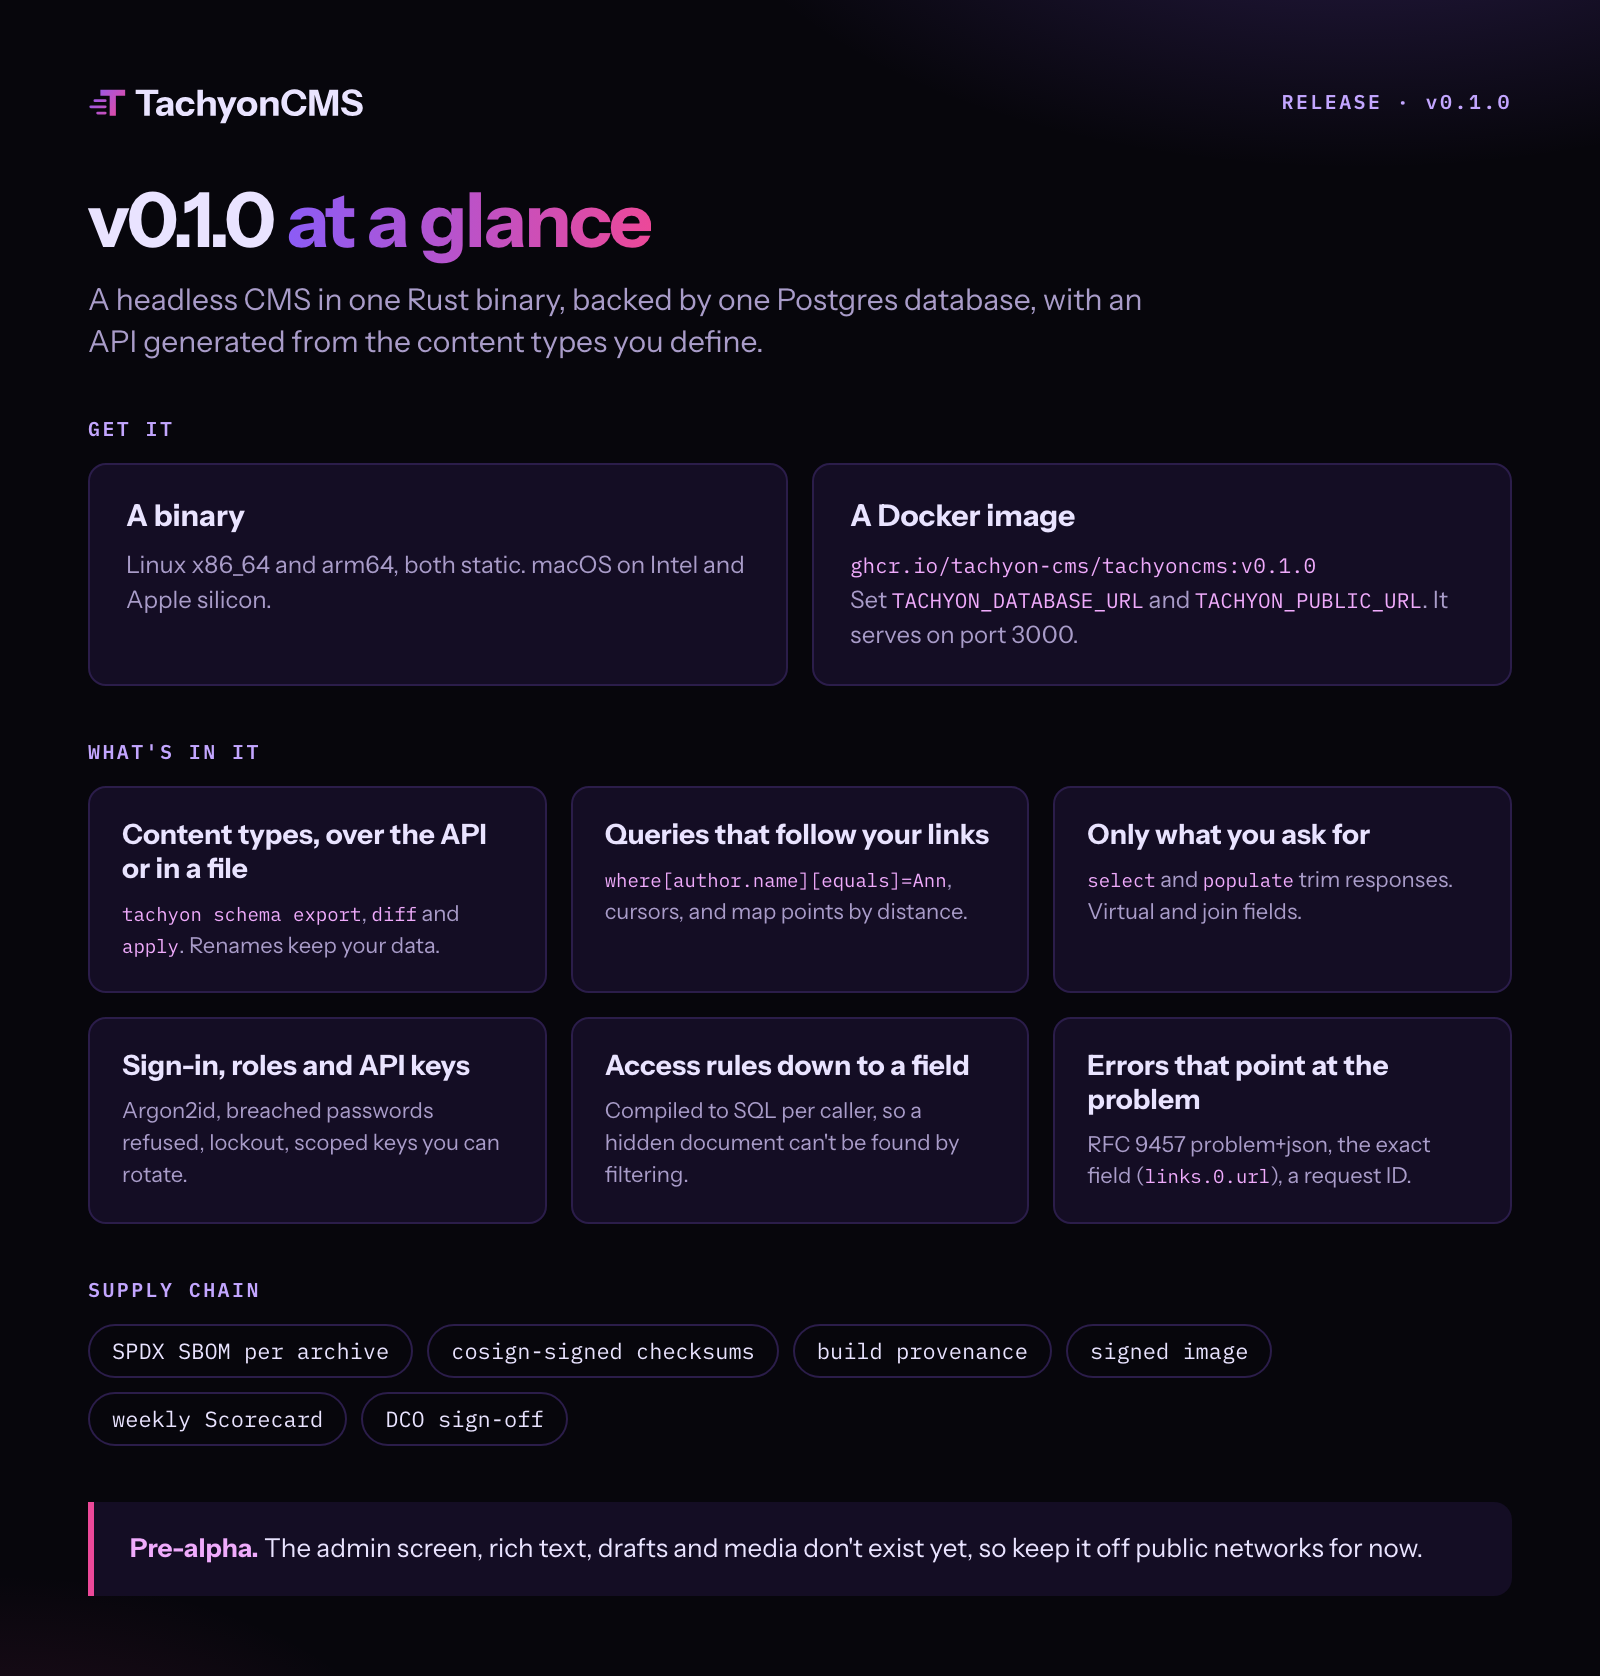
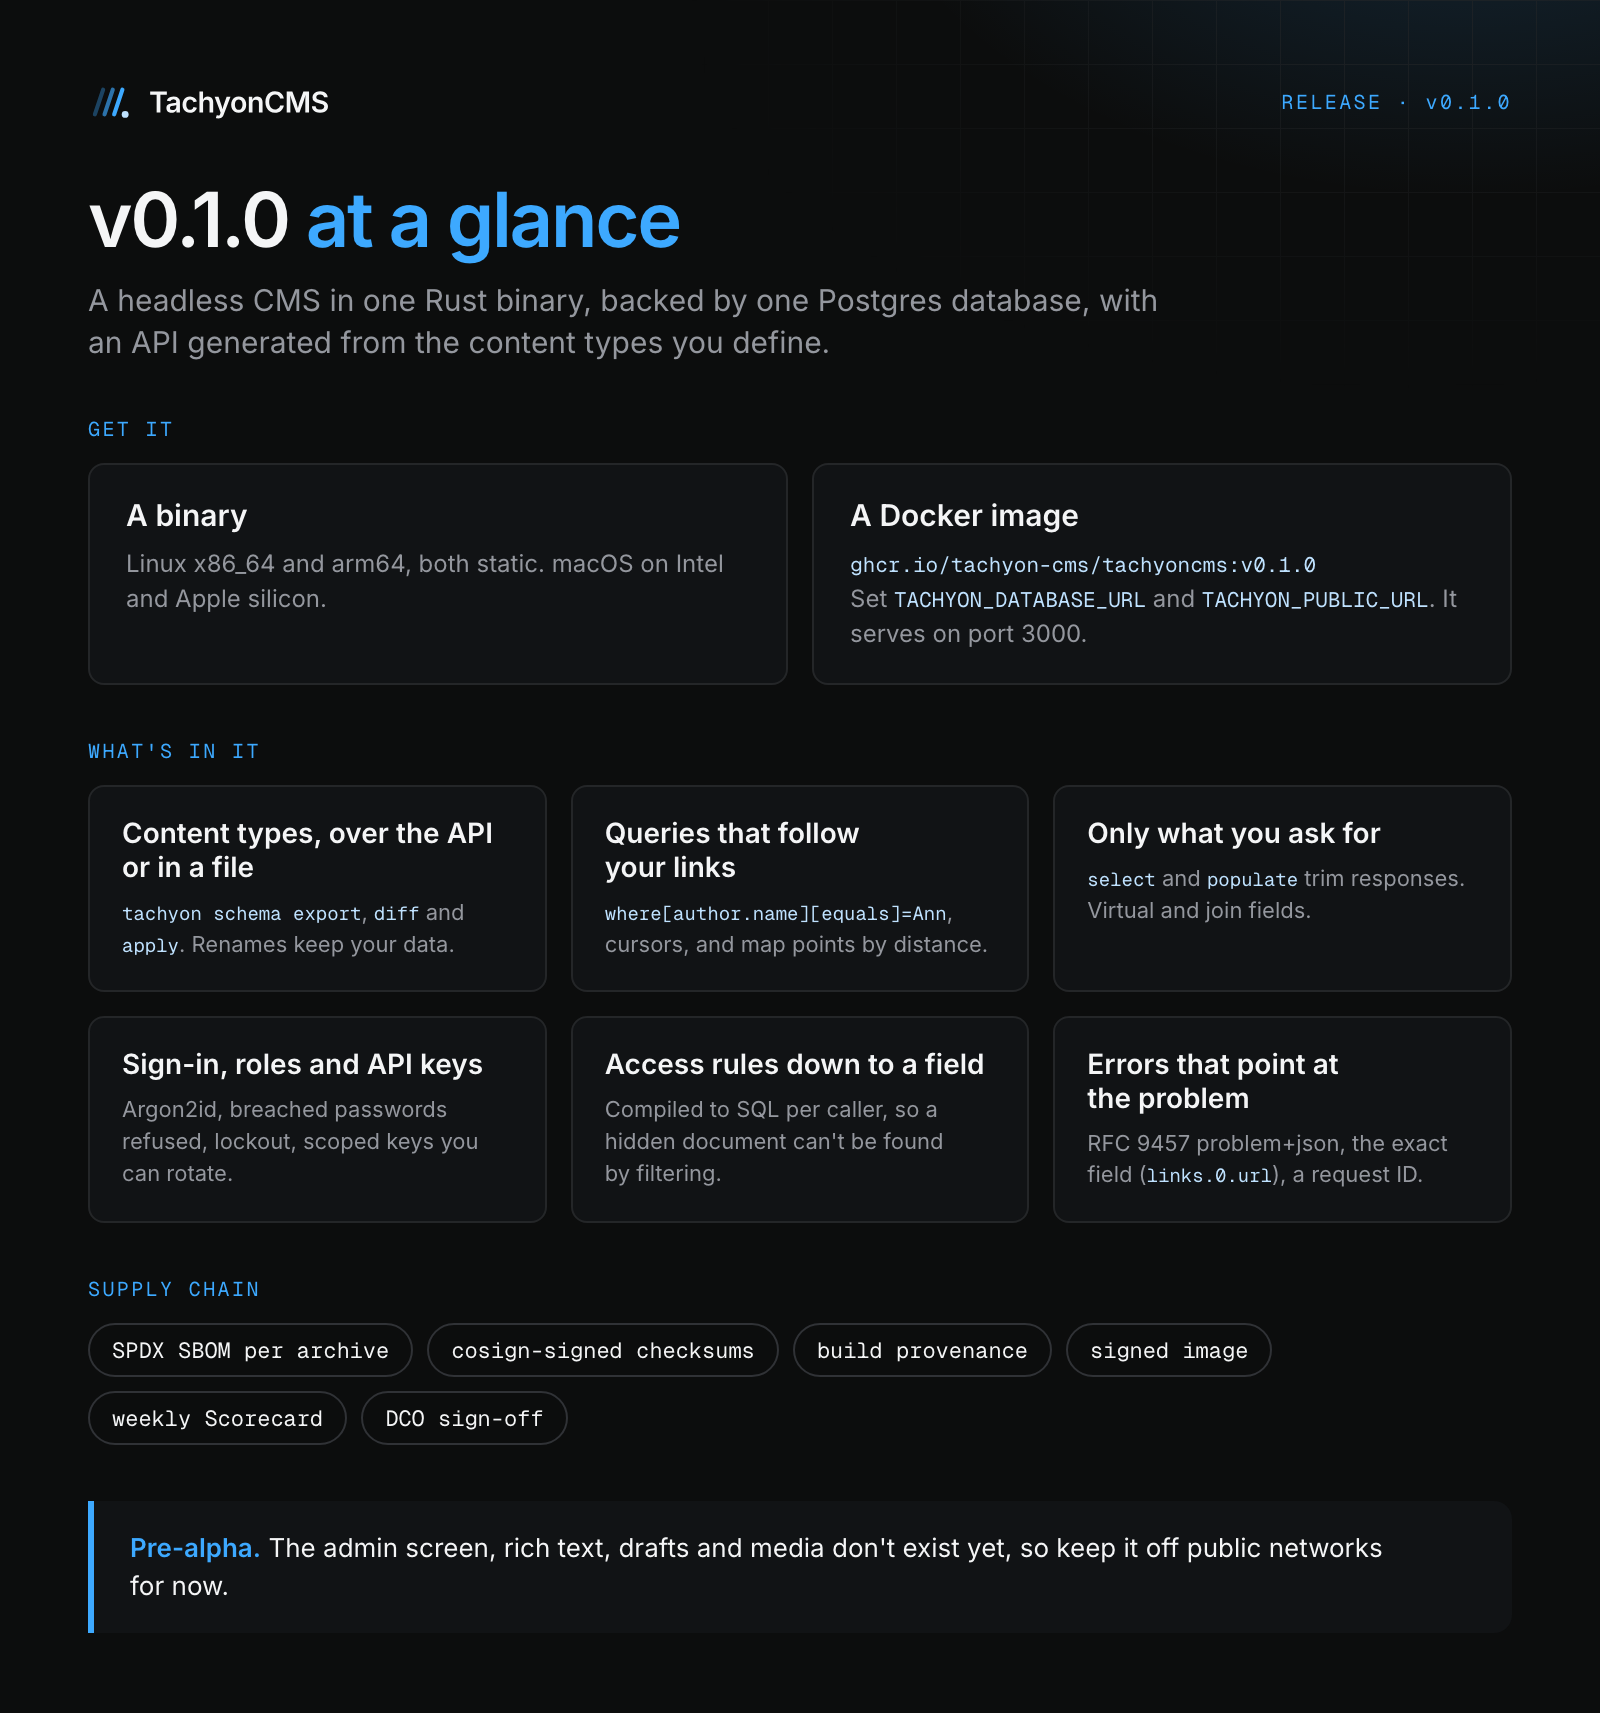
feat: media kits in the new look, docs preview on branches
The blog cards and infographics are re-rendered in the dark palette
with the slipstream mark, Inter and Geist Mono. scripts/media.test.mjs
decodes every PNG under public/media and public/brand and fails on any
pixel of the old violet and pink palette; it also checks each post's
infographic <img> carries the PNG's real size. render.mjs now fails if
a font face can't load, and the Instrument Sans and IBM Plex Mono
packages are gone.

preview-docs.yml uploads the docs as a Worker version on every push
to a branch other than main, without deploying it, and puts the
preview URL in the job summary after checking it serves the CSP.
It never runs on pull_request, skips without the Cloudflare secrets,
and the docs Worker now serves preview URLs (still no workers.dev
route). scripts/workflows.test.mjs holds those rules in place.

diff --git a/scripts/post-graphics/shared.css b/scripts/post-graphics/shared.css
@@ -1,36 +1,47 @@
 /* Shared by every post graphic. Fonts load from the installed @fontsource
- * files, the same ones the site serves; colours are the dark Ultraviolet tokens. */
-@font-face { font-family: "Instrument Sans"; font-weight: 400; src: url("../../node_modules/@fontsource/instrument-sans/files/instrument-sans-latin-400-normal.woff2"); }
-@font-face { font-family: "Instrument Sans"; font-weight: 600; src: url("../../node_modules/@fontsource/instrument-sans/files/instrument-sans-latin-600-normal.woff2"); }
-@font-face { font-family: "Instrument Sans"; font-weight: 700; src: url("../../node_modules/@fontsource/instrument-sans/files/instrument-sans-latin-700-normal.woff2"); }
-@font-face { font-family: "IBM Plex Mono"; font-weight: 400; src: url("../../node_modules/@fontsource/ibm-plex-mono/files/ibm-plex-mono-latin-400-normal.woff2"); }
-@font-face { font-family: "IBM Plex Mono"; font-weight: 600; src: url("../../node_modules/@fontsource/ibm-plex-mono/files/ibm-plex-mono-latin-600-normal.woff2"); }
+ * files, the same ones the site serves; colours are values from
+ * src/brand/tokens.css (scripts/brand.test.mjs keeps them in step). */
+@font-face { font-family: Inter; font-weight: 400; src: url("../../node_modules/@fontsource/inter/files/inter-latin-400-normal.woff2"); }
+@font-face { font-family: Inter; font-weight: 600; src: url("../../node_modules/@fontsource/inter/files/inter-latin-600-normal.woff2"); }
+@font-face { font-family: "Geist Mono"; font-weight: 400; src: url("../../node_modules/@fontsource/geist-mono/files/geist-mono-latin-400-normal.woff2"); }
 
 :root {
-  --bg: #07060c;
-  --surface: #140d24;
-  --border: #2b1d4a;
-  --text: #e9e3ff;
-  --muted: #a99cc9;
-  --violet: #8b5cf6;
-  --pink: #ec4899;
-  --hi: #f0abfc;
-  --soft: #c3a6ff;
-  --grad: linear-gradient(90deg, var(--violet), var(--pink));
-  --sans: "Instrument Sans", sans-serif;
-  --mono: "IBM Plex Mono", monospace;
+  --bg: #0c0d0d;
+  --panel: #111315;
+  --line: #242628;
+  --line-2: #303236;
+  --text: #f4f5f6;
+  --muted: #94979e;
+  --blue: #3da9ff;
+  --blue-soft: #bfe2ff;
+  --blue-deep: #0b2236;
+  --on-blue: #04121f;
+  --sans: Inter, sans-serif;
+  --mono: "Geist Mono", monospace;
 }
 * { box-sizing: border-box; margin: 0; }
+p, h1, h3 { text-wrap: pretty; }
 body {
-  background:
-    radial-gradient(60rem 30rem at 85% -10%, rgb(139 92 246 / 0.28), transparent 70%),
-    radial-gradient(40rem 24rem at 0% 110%, rgb(236 72 153 / 0.16), transparent 70%),
-    var(--bg);
+  position: relative;
+  background: radial-gradient(56rem 36rem at 92% -12%, rgb(61 169 255 / 0.2), transparent 70%), var(--bg);
   color: var(--text);
   font-family: var(--sans);
+  font-weight: 400;
   -webkit-font-smoothing: antialiased;
 }
-.eyebrow { font: 600 20px/1 var(--mono); letter-spacing: 0.12em; text-transform: uppercase; color: var(--soft); }
-.grad { background: var(--grad); -webkit-background-clip: text; background-clip: text; color: transparent; }
+/* The same faint grid as the site's page headers, fading out from the top right. */
+body::before {
+  content: "";
+  position: absolute;
+  inset: 0;
+  background-image: linear-gradient(var(--line) 1px, transparent 1px), linear-gradient(90deg, var(--line) 1px, transparent 1px);
+  background-size: 64px 64px;
+  mask-image: radial-gradient(60% 520px at 88% 0%, #000 10%, transparent 75%);
+  opacity: 0.6;
+}
+.frame { position: relative; }
+h1, h2, h3, b, strong { font-weight: 600; }
+.eyebrow { font: 400 20px/1 var(--mono); letter-spacing: 0.12em; text-transform: uppercase; color: var(--blue); }
+.accent { color: var(--blue); }
 code, pre { font-family: var(--mono); }
-.box { background: var(--surface); border: 2px solid var(--border); border-radius: 18px; }
+.box { background: var(--panel); border: 2px solid var(--line); border-radius: 16px; }

diff --git a/scripts/post-graphics/v0-1-0/infographic.html b/scripts/post-graphics/v0-1-0/infographic.html
@@ -17,23 +17,23 @@
   .get .box { padding: 32px 36px; }
   .get h3 { font-size: 30px; margin-bottom: 14px; }
   .get p { font-size: 24px; line-height: 1.45; color: var(--muted); }
-  .get code { color: var(--hi); font-size: 21px; }
+  .get code { color: var(--blue-soft); font-size: 21px; }
   .grid { display: grid; grid-template-columns: repeat(3, 1fr); gap: 24px; }
   .grid .box { padding: 30px 32px; }
   .grid h3 { font-size: 28px; line-height: 1.2; margin-bottom: 12px; }
   .grid p { font-size: 22px; line-height: 1.45; color: var(--muted); }
-  .grid code { color: var(--hi); font-size: 19px; }
+  .grid code { color: var(--blue-soft); font-size: 19px; }
   .chain { display: flex; flex-wrap: wrap; gap: 14px; padding: 0; list-style: none; }
-  .chain li { padding: 14px 22px; border: 2px solid var(--border); border-radius: 999px; font: 400 22px/1 var(--mono); color: var(--text); }
-  .note { padding: 28px 36px; border-left: 6px solid var(--pink); background: var(--surface); border-radius: 0 18px 18px 0; font-size: 26px; line-height: 1.45; }
-  .note b { color: var(--hi); }
+  .chain li { padding: 14px 22px; border: 2px solid var(--line-2); border-radius: 999px; font: 400 22px/1 var(--mono); color: var(--text); }
+  .note { padding: 28px 36px; border-left: 6px solid var(--blue); background: var(--panel); border-radius: 0 18px 18px 0; font-size: 26px; line-height: 1.45; }
+  .note b { color: var(--blue); }
 </style>
 </head>
 <body>
 <div class="frame">
   <div class="top"><img src="../../../public/brand/logo.svg" alt=""><span class="eyebrow">Release · <span>v0.1.0</span></span></div>
   <header>
-    <h1>v0.1.0 <span class="grad">at a glance</span></h1>
+    <h1>v0.1.0 <span class="accent">at a glance</span></h1>
     <p class="lede">A headless CMS in one Rust binary, backed by one Postgres database, with an API generated from the content types you define.</p>
   </header>
 

diff --git a/scripts/post-graphics/where-tachyoncms-is-headed/card.html b/scripts/post-graphics/where-tachyoncms-is-headed/card.html
@@ -12,16 +12,16 @@
   h1 { align-self: center; font-size: 80px; line-height: 1.02; letter-spacing: -0.04em; }
   ol { display: grid; grid-template-columns: repeat(6, 1fr); gap: 12px; padding: 0; list-style: none; counter-reset: step; }
   li { position: relative; padding: 18px 16px 16px; font-size: 20px; line-height: 1.25; font-weight: 600; }
-  li::before { counter-increment: step; content: "0" counter(step); display: block; margin-bottom: 10px; font: 600 16px/1 var(--mono); color: var(--soft); }
-  li.now { border-color: var(--violet); }
-  li.now::after { content: "under way"; position: absolute; top: -14px; right: 12px; padding: 4px 10px; font: 600 14px/1 var(--mono); color: #fff; background: var(--grad); border-radius: 999px; }
-  li.last { border-style: dashed; }
+  li::before { counter-increment: step; content: "0" counter(step); display: block; margin-bottom: 10px; font: 400 16px/1 var(--mono); color: var(--blue); }
+  li.now { border-color: var(--blue); background: var(--blue-deep); }
+  li.now::after { content: "under way"; position: absolute; top: -14px; right: 12px; padding: 4px 10px; font: 400 14px/1 var(--mono); color: var(--on-blue); background: var(--blue); border-radius: 999px; }
+  li.last { border-style: dashed; border-color: var(--line-2); }
 </style>
 </head>
 <body>
 <div class="frame">
   <div class="top"><img src="../../../public/brand/logo.svg" alt=""><span class="eyebrow">Roadmap</span></div>
-  <h1>Where TachyonCMS<br><span class="grad">is headed.</span></h1>
+  <h1>Where TachyonCMS<br><span class="accent">is headed.</span></h1>
   <ol>
     <li class="box now">Rich text and blocks</li>
     <li class="box">Drafts, versions, scheduling</li>

diff --git a/scripts/post-graphics/where-tachyoncms-is-headed/infographic.html b/scripts/post-graphics/where-tachyoncms-is-headed/infographic.html
@@ -19,12 +19,12 @@
   .row p { font-size: 24px; line-height: 1.45; color: var(--muted); }
   ol { display: grid; gap: 18px; padding: 0; list-style: none; counter-reset: step; }
   ol li { display: grid; grid-template-columns: 96px 1fr auto; align-items: center; gap: 28px; padding: 28px 36px; }
-  ol li::before { counter-increment: step; content: "0" counter(step); font: 600 34px/1 var(--mono); color: var(--soft); }
+  ol li::before { counter-increment: step; content: "0" counter(step); font: 400 34px/1 var(--mono); color: var(--blue); }
   ol h3 { margin-bottom: 6px; }
   ol p { font-size: 23px; line-height: 1.4; color: var(--muted); }
-  .tag { padding: 8px 16px; font: 600 18px/1 var(--mono); color: #fff; background: var(--grad); border-radius: 999px; }
-  li.now { border-color: var(--violet); }
-  li.last { border-style: dashed; }
+  .tag { padding: 8px 16px; font: 400 18px/1 var(--mono); color: var(--on-blue); background: var(--blue); border-radius: 999px; }
+  li.now { border-color: var(--blue); background: var(--blue-deep); }
+  li.last { border-style: dashed; border-color: var(--line-2); }
   .ask { display: grid; grid-template-columns: repeat(3, 1fr); gap: 24px; }
   .ask .box { padding: 30px 32px; }
   .ask h3 { font-size: 28px; }
@@ -35,7 +35,7 @@
 <div class="frame">
   <div class="top"><img src="../../../public/brand/logo.svg" alt=""><span class="eyebrow">Roadmap</span></div>
   <header>
-    <h1>Where TachyonCMS <span class="grad">is headed</span></h1>
+    <h1>Where TachyonCMS <span class="accent">is headed</span></h1>
     <p class="lede">The goal that sets the order: <b>run tachyoncms.com on TachyonCMS itself.</b></p>
   </header>
 

diff --git a/scripts/post-graphics/v0-1-0/card.html b/scripts/post-graphics/v0-1-0/card.html
@@ -9,20 +9,20 @@
   .frame { height: 100%; padding: 60px 72px; display: grid; grid-template-columns: minmax(0, 1fr); grid-template-rows: auto 1fr auto; }
   .top { display: flex; justify-content: space-between; align-items: center; }
   .top img { height: 40px; }
-  h1 { align-self: center; font-size: 84px; line-height: 1.02; letter-spacing: -0.04em; font-weight: 700; }
+  h1 { align-self: center; font-size: 84px; line-height: 1.02; letter-spacing: -0.04em; }
   .bottom { display: grid; gap: 22px; }
   pre { padding: 22px 28px; font-size: 26px; color: var(--text); }
-  pre span { color: var(--hi); }
+  pre span { color: var(--blue); }
   ul { display: flex; gap: 12px; padding: 0; list-style: none; font: 400 18px/1 var(--mono); color: var(--muted); }
   .eyebrow span { text-transform: none; }
-  li { white-space: nowrap; padding: 10px 14px; border: 2px solid var(--border); border-radius: 999px; }
-  li b { color: var(--text); font-weight: 600; }
+  li { white-space: nowrap; padding: 10px 14px; border: 2px solid var(--line); border-radius: 999px; }
+  li b { color: var(--text); font-weight: 400; }
 </style>
 </head>
 <body>
 <div class="frame">
   <div class="top"><img src="../../../public/brand/logo.svg" alt=""><span class="eyebrow">Release · <span>v0.1.0</span></span></div>
-  <h1>Run it<br><span class="grad">without building it.</span></h1>
+  <h1>Run it<br><span class="accent">without building it.</span></h1>
   <div class="bottom">
     <pre class="box"><span>$</span> docker pull ghcr.io/tachyon-cms/tachyoncms:v0.1.0</pre>
     <ul>

diff --git a/src/content/blog/v0-1-0.md b/src/content/blog/v0-1-0.md
@@ -49,7 +49,7 @@ From there the [README](https://github.com/tachyon-cms/tachyoncms#first-run) tak
 ## What you get
 
 <figure>
-  <a href="/media/blog/v0-1-0/infographic.png"><img src="/media/blog/v0-1-0/infographic.png" alt="v0.1.0 at a glance. Get it as a binary for Linux or macOS, or as a Docker image. What's in it: content types over the API or in a file, queries that follow your links, responses trimmed to what you ask for, sign-in with roles and API keys, access rules down to a field, and errors that name the field. Supply chain: an SBOM per archive, cosign-signed checksums, build provenance, a signed image, a weekly Scorecard and DCO sign-off. Pre-alpha: no admin screen, rich text, drafts or media yet." width="1600" height="1676" loading="lazy" decoding="async" /></a>
+  <a href="/media/blog/v0-1-0/infographic.png"><img src="/media/blog/v0-1-0/infographic.png" alt="v0.1.0 at a glance. Get it as a binary for Linux or macOS, or as a Docker image. What's in it: content types over the API or in a file, queries that follow your links, responses trimmed to what you ask for, sign-in with roles and API keys, access rules down to a field, and errors that name the field. Supply chain: an SBOM per archive, cosign-signed checksums, build provenance, a signed image, a weekly Scorecard and DCO sign-off. Pre-alpha: no admin screen, rich text, drafts or media yet." width="1600" height="1713" loading="lazy" decoding="async" /></a>
   <figcaption>The whole release on one page. Open it full size, or share it.</figcaption>
 </figure>
 

diff --git a/src/content/blog/where-tachyoncms-is-headed.md b/src/content/blog/where-tachyoncms-is-headed.md
@@ -19,7 +19,7 @@ I want tachyoncms.com running on TachyonCMS itself. Right now the page you're re
 ## The list
 
 <figure>
-  <a href="/media/blog/where-tachyoncms-is-headed/infographic.png"><img src="/media/blog/where-tachyoncms-is-headed/infographic.png" alt="Where TachyonCMS is headed. The goal: run tachyoncms.com on TachyonCMS itself. Next, in order: rich text and blocks (under way), drafts, versions and scheduled publishing, media, live preview, authoring tools, then the admin screen. Where you come in: ten open issues, a vote on the order in Discussion #39, and Discussion #38 to pick the first starter." width="1600" height="1953" loading="lazy" decoding="async" /></a>
+  <a href="/media/blog/where-tachyoncms-is-headed/infographic.png"><img src="/media/blog/where-tachyoncms-is-headed/infographic.png" alt="Where TachyonCMS is headed. The goal: run tachyoncms.com on TachyonCMS itself. Next, in order: rich text and blocks (under way), drafts, versions and scheduled publishing, media, live preview, authoring tools, then the admin screen. Where you come in: ten open issues, a vote on the order in Discussion #39, and Discussion #38 to pick the first starter." width="1600" height="1946" loading="lazy" decoding="async" /></a>
   <figcaption>The order, on one page.</figcaption>
 </figure>
 
